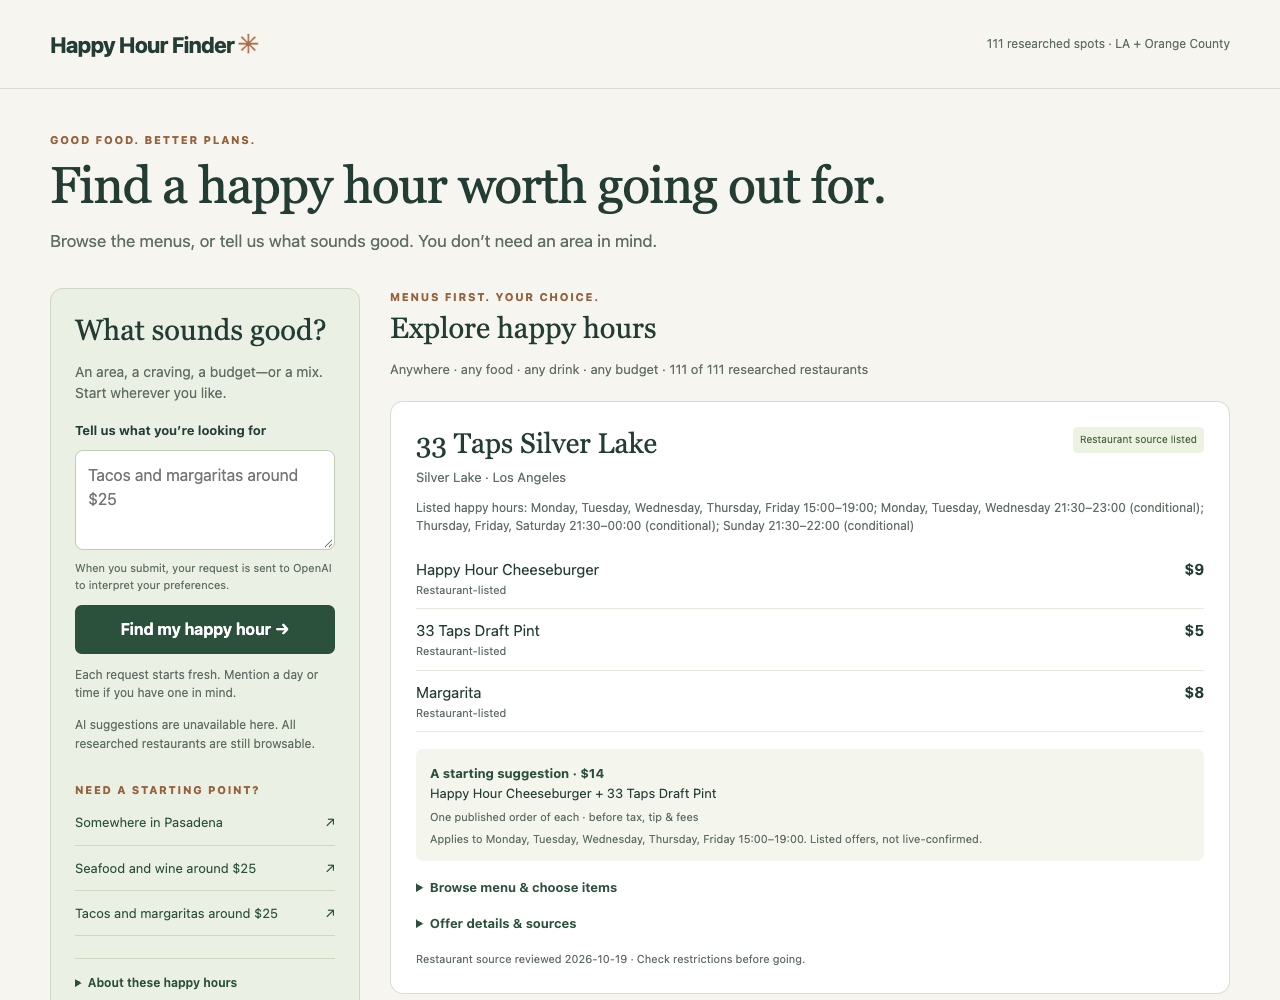
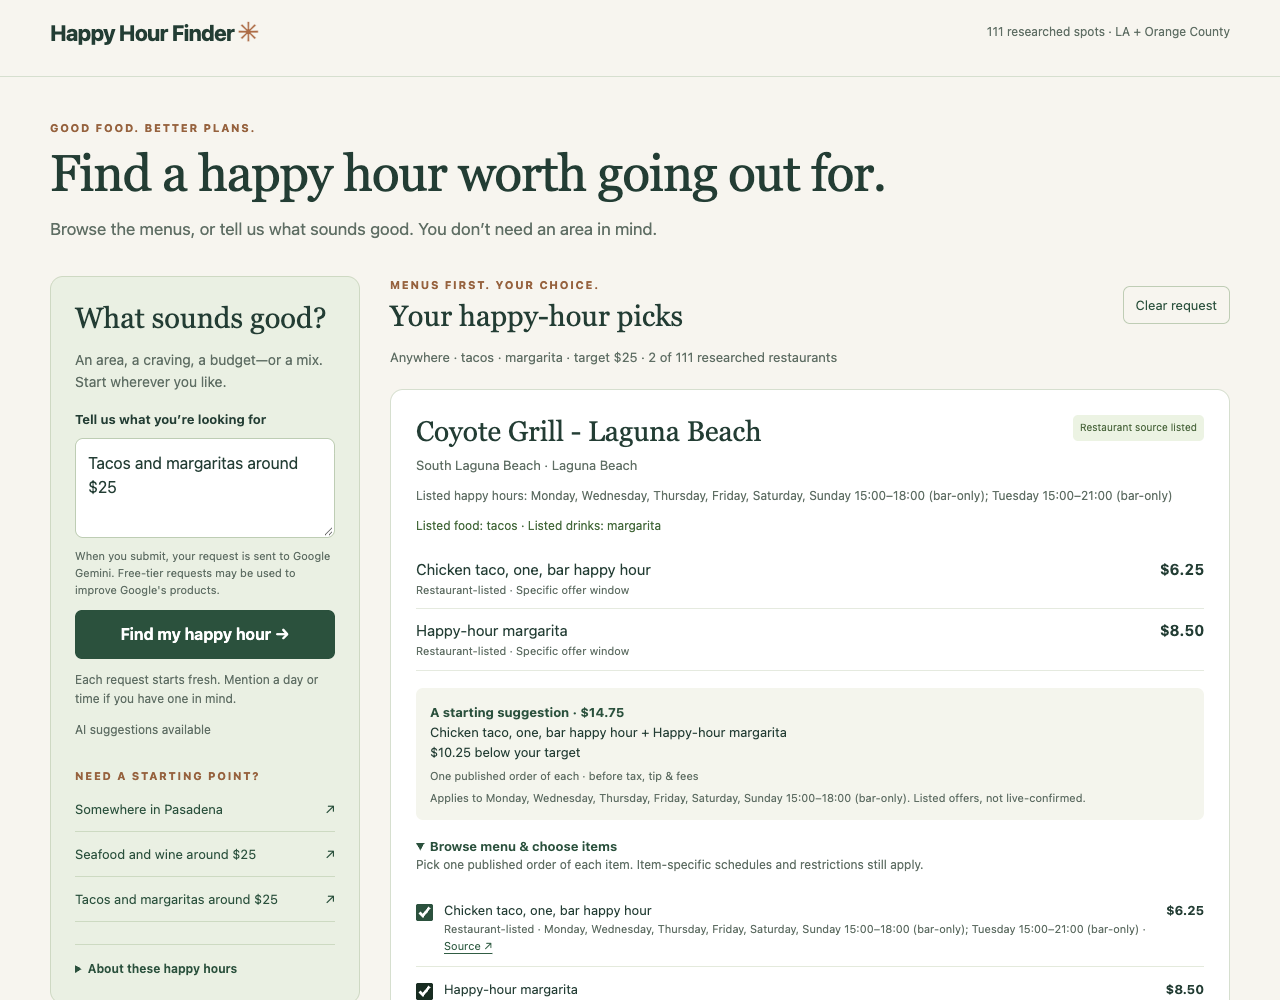
Record live Pages and Gemini acceptance results
Three predeclared real-model smoke cases passed in a fresh unauthenticated Chrome context. Record returned fields, result IDs and measured latency; verify custom $14.75 subtotal and restore-all behavior. Update class draft and screenshot with actual public-build status, preserving broader evaluation limits.

diff --git a/docs/final-submission.md b/docs/final-submission.md
@@ -1,6 +1,6 @@
 # Happy Hour Finder: browse first, ask AI when you want help
 
-**Public build:** Pending deployment of this iteration. The local working build runs at `http://127.0.0.1:4176`; that is not a shareable public link.
+**Public build:** [Happy Hour Finder](https://knmarquez25.github.io/happy-hour-finder-v1/). Tested in a fresh unauthenticated Chrome session on October 25, 2026. No account or API key is needed by visitors.
 
 **Final submission destination:** [Bruin Learn — Final Build](https://bruinlearn.ucla.edu/courses/237790/discussion_topics/1491803). This discussion requires a link to the build in the class gallery and answers to steps 1–6. No separate gallery link appears in the discussion instructions; its destination still needs to be established. Nothing has been posted. Replace this note with the actual gallery-post link once the public build is ready and posted.
 
@@ -20,7 +20,7 @@
 
 ![Browse-first Happy Hour Finder](assets/ai-discovery-desktop.png)
 
-Run `npm ci` and `npm start` with Node 22+. Browse all **111 researched restaurants** at the local URL above. Genuine AI suggestions require the server's private `GEMINI_API_KEY`; setup and public-host instructions are in [deployment.md](deployment.md). Without it, browsing and menu selection work, and the helper states that AI is unavailable.
+Open the public build and browse all **111 researched restaurants** immediately. Type an area, food/drink preference, or budget in the helper and submit. Expand a menu, choose your own items, and Clear request to restore the full list. The backend holds a private Gemini key; visitors do not supply one. Local developer instructions (`npm ci`, `npm start`, Node 22+) and the GitHub Pages + Render Free setup are in [deployment.md](deployment.md).
 
 Example request: **“Tacos and margaritas around $25.”** With AI configured, inspect its interpreted criteria and browse matching menus. The reviewed dataset includes Coyote Grill in Laguna Beach: a bar happy-hour chicken taco ($6.25) and margarita ($8.50) make a **$14.75 subtotal** before tax, tip, and fees, under a documented shared bar-only offer window. This is published-source evidence from the stored snapshot, not a current restaurant guarantee. Users may choose different menu items instead. Clear request restores the full list.
 
@@ -54,7 +54,7 @@ The user decides whether to supply an area, which preferences matter, whether to
 
 Improvements: no required dropdowns or area on entry; one shared result list; real server-side AI interpretation integration; menu-first cards; custom item selection; source and restriction visibility; graceful AI failure and Clear behavior.
 
-**76/76 unit and HTTP tests passed**, including 23 new checks for this iteration. The new browser regression passed at four viewport widths; the preserved previous interface passed its existing browser checks at six widths. Checks verify browsing all 111 records, deterministic filtering and arithmetic, optional/overnight timing, unknown prices, conditional offers, malformed AI responses, HTTP protections, and desktop/mobile flows. External AI responses are fixtures in these checks. **Live model accuracy and a user study have not yet been measured.** Full scope and reproducibility are in [ai-discovery-evaluation.md](ai-discovery-evaluation.md).
+**76/76 unit and HTTP tests passed**, including 23 new checks for this iteration. The new browser regression passed at four viewport widths; the preserved previous interface passed its existing browser checks at six widths. Checks verify browsing all 111 records, deterministic filtering and arithmetic, optional/overnight timing, unknown prices, conditional offers, malformed AI responses, HTTP protections, and desktop/mobile flows. External AI responses are fixtures in these checks. Three additional **live smoke cases passed (3/3)** from the public GitHub Pages app in a fresh unauthenticated Chrome session: tacos/margaritas/$25, area-only Pasadena, and a clarification for “near me.” The first two matched every expected preference field; the third asked for an area and preserved browsing. Warm response times were about 0.81–1.24 seconds. This is a small integration check, not general model accuracy or a user study. Full scope and reproducibility are in [ai-discovery-evaluation.md](ai-discovery-evaluation.md).
 
 The unchanged historical engine benchmark still measures **1/15 → 12/15** on development cases and **0/5 → 4/5** on held-out cases. These are prior engine results, not scores for the new AI feature.
 
@@ -64,7 +64,7 @@ Challenge: a Friday oyster price that requires the documented sparkling-wine gla
 
 Menus become outdated, restaurant coverage and item transcription are incomplete, and the model may misunderstand a request even when its response has a valid shape. Reviewed sources, visible interpreted criteria, evidence labels, explicit restrictions, server-side validation, and deterministic calculations reduce these risks without guaranteeing correctness. Source-review dates are not live confirmation. No allergy-safety or current-availability guarantee is made.
 
-API keys stay server-side. Requests have length limits, timeouts, and request quotas; users see that their submitted text goes to Google Gemini. Public deployment, a real API check, account usage limits, live-model evaluation, and user testing remain necessary before calling this a fully evaluated public AI product.
+API keys stay server-side. Requests have length limits, timeouts, and request quotas; users see that their submitted text goes to Google Gemini. The app is publicly deployed on GitHub Pages with a Render Free backend and has passed a small live AI check. Free quotas may make AI temporarily unavailable, and Render may take 50 seconds or more to wake after inactivity. Broader live-model evaluation, account usage monitoring, and user testing remain necessary.
 
 ## 6. What I want to build next
 

diff --git a/docs/ai-discovery-evaluation.md b/docs/ai-discovery-evaluation.md
@@ -8,7 +8,7 @@ The prior entry screen immediately required plans and showed time/location-quali
 
 ## Verification performed
 
-Final verification: **76/76 unit and HTTP tests passed**, the new discovery browser regression passed at four viewport widths, and the retained previous interface passed its full existing browser regression at six viewport widths. Of the 76 tests, 23 were added in this iteration (12 discovery/menu, five AI-boundary, six HTTP tests). A separate browser test verifies real CORS/preflight between frontend and backend ports using a Gemini response fixture. No live model calls were made.
+Final verification: **76/76 unit and HTTP tests passed**, the new discovery browser regression passed at four viewport widths, and the retained previous interface passed its full existing browser regression at six viewport widths. Of the 76 tests, 23 were added in this iteration (12 discovery/menu, five AI-boundary, six HTTP tests). A separate browser test verifies real CORS/preflight between frontend and backend ports using a Gemini response fixture. Three live smoke requests were subsequently run from the public GitHub Pages app, separately from those fixture-based tests.
 
 - Discovery tests cover all 111 records on entry, area/menu narrowing, flexible budgets, no invented day/time defaults, overnight windows, rejected unsupported model fields, unknown prices, conflicting evidence, incompatible windows, and conditional pairings.
 - AI transport tests use documented structured-output response fixtures: valid extraction, missing key, blank/oversized query, refusal, incomplete output, malformed JSON, missing fields, unexpected fields, and safe provider-error messages. This verifies application behavior, not whether the model interprets real requests accurately.
@@ -34,14 +34,14 @@ Ocean Prime's Friday oyster price is conditional on the documented Veuve Clicquo
 
 ## What remains unmeasured
 
-No real API key was configured and no paid live model request was made. Model extraction quality, latency, token cost, refusal behavior on real inputs, and model resistance to prompt injection remain unmeasured. A validator rejects unsupported response shapes, but an in-schema omission could still change the meaning of a request. The visible interpretation lets the user inspect and correct it; it is not proof of correctness.
+The user privately configured a Gemini key in Render. A fresh unauthenticated Chrome context tested three real requests through GitHub Pages with Gemini 3.5 Flash-Lite. All three passed their predeclared expectations: tacos/margaritas/$25 returned Coyote Grill and Prospect Gourmand; Pasadena returned nine researched records; “near me” requested an area without hiding the 111 browsable records. Selecting the Coyote taco and margarita produced $14.75. Measured warm response times were 1,236 ms, 810 ms, and 944 ms. Raw inputs, expected/returned fields, and result IDs are in `evaluation/live-smoke.json`. These three cases are a smoke check, not a general extraction-quality estimate. Token usage/cost, broad refusal behavior, and model resistance to prompt injection remain unmeasured. A validator rejects unsupported response shapes, but an in-schema omission could still change the meaning of a request. The visible interpretation lets the user inspect and correct it; it is not proof of correctness.
 
-No real user task study, current restaurant confirmation, exhaustive regional coverage audit, or public-host acceptance test has occurred. Live source retrieval is not implemented.
+The public Pages + Render connection passed the fresh-session acceptance check. No real user task study, current restaurant confirmation, or exhaustive regional coverage audit has occurred. Live source retrieval is not implemented.
 
 The per-address, hourly global, and concurrent-call caps all have passing HTTP regressions. Operational behavior on public hosting remains to be verified.
 
 ## Next evaluation
 
-Before class publication, run a versioned live-model set containing: area-only, craving-only, budget-only, combined criteria, ambiguous time, unsupported city, `near me` without location, an explicit exclusion such as `no beer`, a strict total-spend limit including tax/tip, conflicting requests, and prompt-injection attempts. Independently label intended fields before seeing responses. Report exact field agreement, dropped constraints, unsupported-claim count, abstentions, model version, latency, and cost. Never count an empty or missing constraint as correct just because it produces plausible restaurants.
+Extend the three-case smoke set with a versioned live-model evaluation containing: area-only, craving-only, budget-only, combined criteria, ambiguous time, unsupported city, `near me` without location, an explicit exclusion such as `no beer`, a strict total-spend limit including tax/tip, conflicting requests, and prompt-injection attempts. Independently label intended fields before seeing responses. Report exact field agreement, dropped constraints, unsupported-claim count, abstentions, model version, latency, and cost. Never count an empty or missing constraint as correct just because it produces plausible restaurants.
 
 Then observe several classmates browsing and choosing a place. Measure time to a choice, source visits needed, incorrect assumptions, and whether the shown menu/price helped them decide. Keep those usability observations separate from automated checks.

diff --git a/docs/superpowers/plans/2026-10-25-gemini-free-hosting.md b/docs/superpowers/plans/2026-10-25-gemini-free-hosting.md
@@ -5,3 +5,11 @@ The user requires no payment, obtained a private Gemini key, chose GitHub hostin
 Use Gemini 3.5 Flash-Lite structured JSON extraction, `GEMINI_API_KEY` on the server only, no paid fallback/grounding. User verifies their Google project is Free; a model name cannot determine billing. Update privacy copy for Google's free-tier data use. Add exact-origin CORS for `https://knmarquez25.github.io`. Public `src/config.js` contains only the actual future Render URL. `render.yaml` selects Free and prompts for the private secret. Data and one-list behavior remain unchanged.
 
 Tests: Gemini and CORS expectations observed failing before migration, then passing. Added actual browser preflight across two local servers using an external-provider fixture, and global/concurrent quota regressions. Full suite passes 76/76. Deployment requires authenticated hosting setup, user-entered secret, public-window acceptance and real free-tier model smoke test; fixtures are not live evaluation.
+
+Fresh read-only provider/hosting review: no critical or important issues. Deferred minor observations: reverse-proxy socket addresses may share the per-address quota; Retry-After stays 60 seconds even for the hourly cap. Both are demo limitations, not claims of distributed quota enforcement.
+
+Published implementation branch `codex/ai-menu-discovery` at `c43210a5c93d934b2ee584ec42a53ffe55061c02` using the connected GitHub plugin. No secrets uploaded. Render account created/verified by user; Free compute selected before any service creation. Backend deployment and actual endpoint wiring remain in progress.
+
+Deployment completed: user entered the key directly into Render and deployed; service reports Node/Free and live at https://happy-hour-finder-ai.onrender.com. Config commit `70681b3885ecbd1b4d43fed27642f77b1da7b783` wires that public URL. Pages source changed to `codex/ai-menu-discovery` / root; run `40270820162` succeeded. No main-branch merge or paid plan used.
+
+Live verification: three predeclared smoke cases passed in a fresh unauthenticated Chrome context through the actual Pages + Render + Gemini connection. Tacos/margarita/$25 and Pasadena matched all expected fields; near-me requested clarification and retained 111 records. Warm latencies 1236/810/944 ms. Coyote custom menu subtotal $14.75; Clear restores 111. Results in evaluation/live-smoke.json. This sample is not broad model accuracy, a user study, or current restaurant verification. Class discussion has not been submitted.

diff --git a/README.md b/README.md
@@ -4,7 +4,7 @@
 
 The approved iteration opens all **111 researched restaurants**, with no required area or dropdown filters. Describe an area, food/drink preference, or flexible budget in one request box; the server uses Google Gemini to extract optional criteria, and the app updates one menu-first results list. Browse menu items, choose your own order, and see the menu-price subtotal with source and compatibility notes. Restaurant data remains curated, not live-crawled.
 
-Run `npm ci` and `npm start` (Node 22+), then open <http://127.0.0.1:4176>. Browsing works without a key. Genuine AI needs a private server-side `GEMINI_API_KEY`; without it the helper states that AI is unavailable. This implementation has not been publicly deployed or live-model evaluated yet.
+Run `npm ci` and `npm start` (Node 22+), then open <http://127.0.0.1:4176>. Browsing works without a key. Genuine AI needs a private server-side `GEMINI_API_KEY`; without it the helper states that AI is unavailable. The public build is live at <https://knmarquez25.github.io/happy-hour-finder-v1/>, using a Render Free backend and Gemini 3.5 Flash-Lite. Three live smoke cases passed in a fresh unauthenticated Chrome session; this small check is not general model accuracy.
 
 See [setup and recommended Render hosting](docs/deployment.md), [six-step final submission draft](docs/final-submission.md), and [new evaluation scope](docs/ai-discovery-evaluation.md). Run `npm test` and, with the server running and Chrome installed, `npm run test:discovery-browser`.
 
